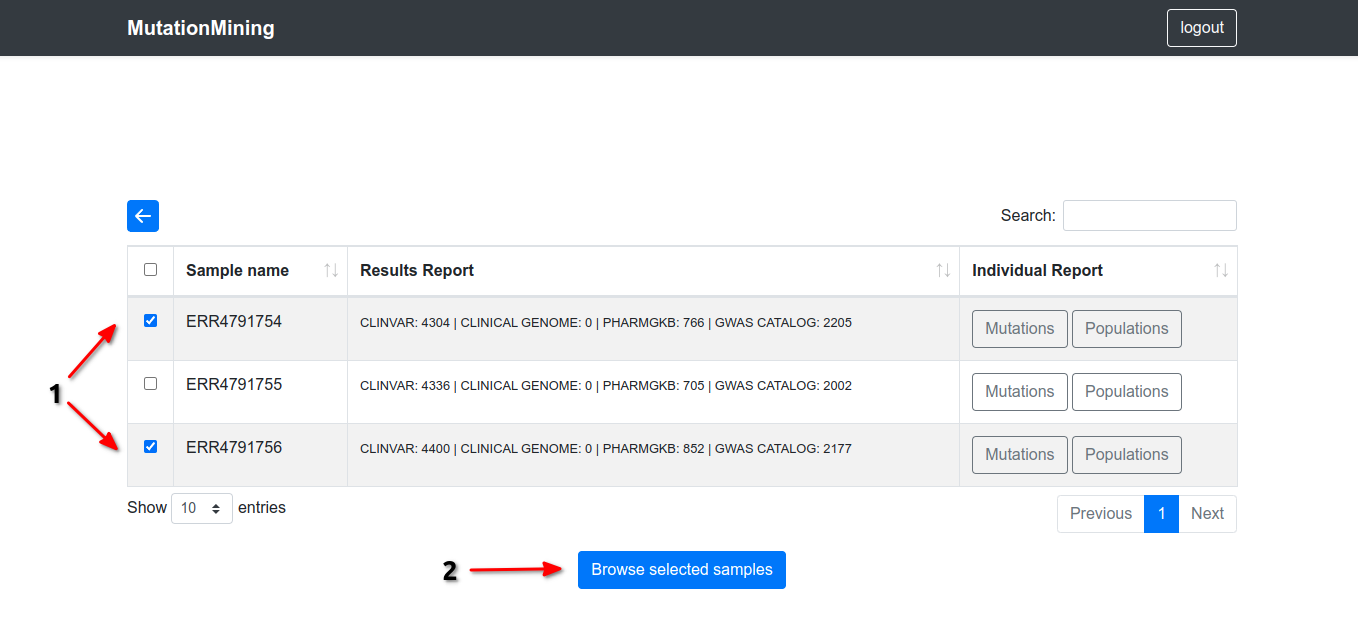
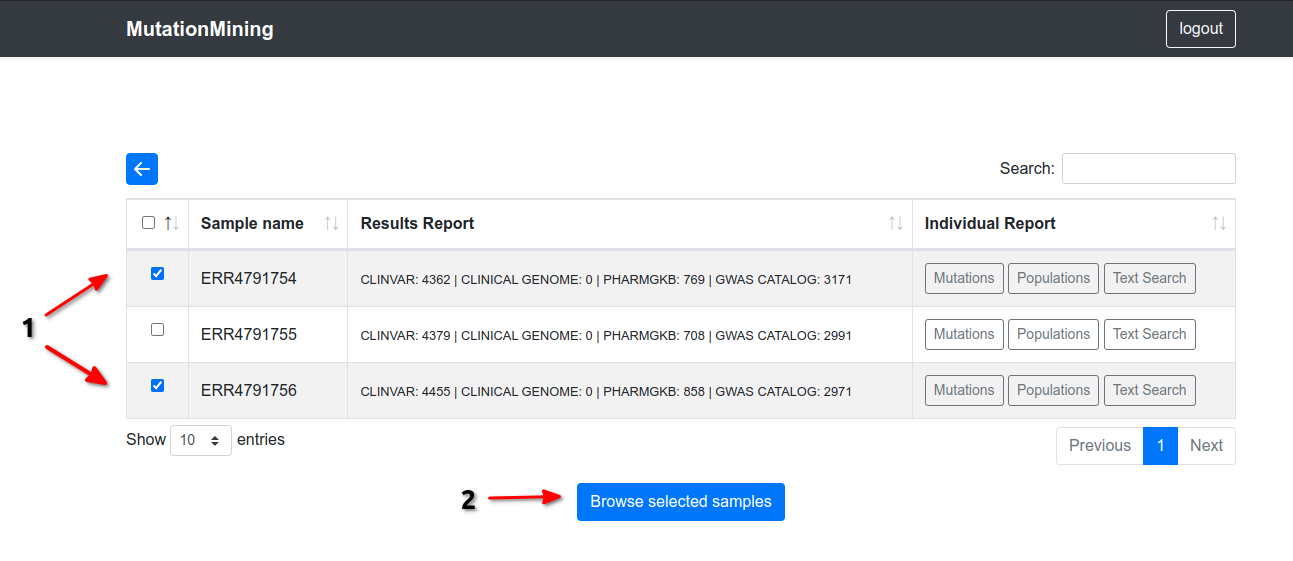
GitBook: [#46] No subject

diff --git a/home-page/sequencing-projects/display-variants-for-samples/README.md b/home-page/sequencing-projects/display-variants-for-samples/README.md
@@ -1,13 +1,13 @@
 # Display variants for samples
 
-When we click on the number of samples, a table similar to the following is displayed
+When we click on the number of samples or report button, a table similar to the following is displayed
 
 ![](../../../.gitbook/assets/samples-table.png)
 
-| Name column       | Description                                                                                                                               |
-| ----------------- | ----------------------------------------------------------------------------------------------------------------------------------------- |
-| Sample name       | Name of sample                                                                                                                            |
-| Results Report    | Number of total variants in each genomic database                                                                                         |
+| Name column       | Description                                                                                                                                                                                                      |
+| ----------------- | ---------------------------------------------------------------------------------------------------------------------------------------------------------------------------------------------------------------- |
+| Sample name       | Name of sample                                                                                                                                                                                                   |
+| Results Report    | Number of total variants in each genomic database                                                                                                                                                                |
 | Individual Report | [![](../../../.gitbook/assets/button-mutations.png)](./#mutations) [![](../../../.gitbook/assets/button-populations.png)](./#populations) [![](../../../.gitbook/assets/button-text-search.png)](./#text-search) |
 
 In this page we can perform different options
@@ -29,3 +29,9 @@ In this page we can perform different options
 * [View prediction of possible sample origins](populations.md)
 
 ![](../../../.gitbook/assets/samples-table-populations.png)
+
+### Text search
+
+* [Text search in genomic databases](../text-search.md)
+
+![](../../../.gitbook/assets/samples-table-text-search.png)

diff --git a/home-page/sequencing-projects/text-search.md b/home-page/sequencing-projects/text-search.md
@@ -1,3 +1,12 @@
 # Text Search
 
-&#x20;
+This page shows the result of the text search in the genomic databases. If you want to see the information of these tables go to [Mutations](display-variants-for-samples/mutations.md)
+
+Here is a simple example on how to use this tool
+
+1. Enter the text in section 1 and press the search button
+2. Show results with the searched text highlighted
+
+![](../../.gitbook/assets/text-search-table.png)
+
+![](../../.gitbook/assets/text-search-table-result.png)

diff --git a/home-page/sequencing-projects.md b/home-page/sequencing-projects.md
@@ -22,6 +22,6 @@ For this guide we have used the project PRJEB41088\_AngelmanTrio (link), each us
 
 ![](../.gitbook/assets/sequencing-projects-samples.png)
 
-* Genome tables [text search section](sequencing-projects/text-search.md)
+* Genomic tables [text search section](sequencing-projects/text-search.md)
 
 ![](../.gitbook/assets/sequencing-projects-search-text.png)
